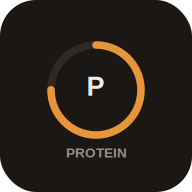
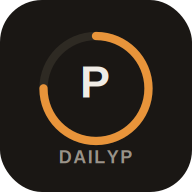
Add files via upload

diff --git a/public/index.html b/public/index.html
@@ -7,7 +7,8 @@
   <meta name="apple-mobile-web-app-status-bar-style" content="black-translucent">
   <meta name="theme-color" content="#1a1714">
   <link rel="manifest" href="/manifest.json">
-  <title>Protein Tracker</title>
+  <link rel="apple-touch-icon" href="/apple-touch-icon.png">
+  <title>DailyP — Hit your protein. Every day.</title>
   <link href="https://fonts.googleapis.com/css2?family=DM+Sans:ital,opsz,wght@0,9..40,300;0,9..40,400;0,9..40,500;0,9..40,600;0,9..40,700&display=swap" rel="stylesheet">
   <style>
     * { box-sizing: border-box; margin: 0; padding: 0; }
@@ -192,7 +193,7 @@
       return (
         <div style={{minHeight:"100vh",background:T.bg,color:T.text,maxWidth:430,margin:"0 auto",paddingBottom:40}}>
           <div style={{padding:"20px 24px 0",display:"flex",justifyContent:"space-between",alignItems:"center"}}>
-            <h2 style={{fontSize:20,fontWeight:700}}>History</h2>
+            <div style={{display:"flex",alignItems:"center",gap:6}}><svg width="22" height="22" viewBox="0 0 32 32"><circle cx="16" cy="16" r="14" fill="none" stroke={T.surfaceLight} strokeWidth="2.5"/><circle cx="16" cy="16" r="14" fill="none" stroke={T.accent} strokeWidth="2.5" strokeDasharray={88} strokeDashoffset={22} strokeLinecap="round" style={{transform:"rotate(-90deg)",transformOrigin:"center"}}/><text x="16" y="21" textAnchor="middle" fill={T.text} fontSize="14" fontWeight="700" fontFamily="DM Sans">P</text></svg><h2 style={{fontSize:18,fontWeight:700}}>History</h2></div>
             <button onClick={onClose} style={{background:T.surface,border:`1px solid ${T.surfaceLight}`,color:T.textDim,fontSize:12,padding:"6px 14px",borderRadius:8,cursor:"pointer"}}>Back</button>
           </div>
           <div style={{display:"flex",gap:4,background:T.surface,borderRadius:12,margin:"16px 24px 0",padding:4}}>
@@ -246,8 +247,8 @@
 
             {step===0&&(
               <div style={{animation:"fadeIn 0.4s ease"}}>
-                <h2 style={{fontSize:26,fontWeight:700,marginBottom:8,background:`linear-gradient(135deg,${T.text},${T.accent})`,WebkitBackgroundClip:"text",WebkitTextFillColor:"transparent"}}>Let's set your protein goal</h2>
-                <p style={{fontSize:14,color:T.textDim,marginBottom:32,lineHeight:1.5}}>We'll calculate a personalized daily target based on your body and goals.</p>
+                <h2 style={{fontSize:26,fontWeight:700,marginBottom:8,background:`linear-gradient(135deg,${T.text},${T.accent})`,WebkitBackgroundClip:"text",WebkitTextFillColor:"transparent"}}>Welcome to DailyP</h2>
+                <p style={{fontSize:14,color:T.textDim,marginBottom:32,lineHeight:1.5}}>Let's calculate your personalized daily protein target.</p>
                 <label style={{fontSize:13,color:T.textDim,display:"block",marginBottom:10}}>What's your current weight?</label>
                 <div style={{display:"flex",gap:10,marginBottom:24}}>
                   <input type="number" value={weight} onChange={e=>setWeight(e.target.value)} placeholder="Enter weight" style={{flex:1,background:T.surface,border:`1px solid ${T.surfaceLight}`,color:T.text,fontSize:18,padding:"14px 16px",borderRadius:12}} onFocus={e=>e.target.style.borderColor=T.accent} onBlur={e=>e.target.style.borderColor=T.surfaceLight} autoFocus/>
@@ -395,16 +396,19 @@
       const clearDay=()=>{setEntries([]);setError("");};
       const today=new Date().toLocaleDateString("en-US",{weekday:"long",month:"long",day:"numeric"});
 
-      if(!loaded)return<div style={{minHeight:"100vh",background:T.bg,display:"flex",alignItems:"center",justifyContent:"center"}}><div style={{color:T.accent,fontSize:16,animation:"pulse 1.5s ease infinite"}}>Loading...</div></div>;
+      if(!loaded)return<div style={{minHeight:"100vh",background:T.bg,display:"flex",flexDirection:"column",alignItems:"center",justifyContent:"center",gap:12}}><div style={{display:"flex",alignItems:"center",gap:4}}><svg width="32" height="32" viewBox="0 0 32 32"><circle cx="16" cy="16" r="14" fill="none" stroke={T.surfaceLight} strokeWidth="2.5"/><circle cx="16" cy="16" r="14" fill="none" stroke={T.accent} strokeWidth="2.5" strokeDasharray={88} strokeDashoffset={22} strokeLinecap="round" style={{transform:"rotate(-90deg)",transformOrigin:"center"}}/><text x="16" y="21" textAnchor="middle" fill={T.text} fontSize="14" fontWeight="700" fontFamily="DM Sans">P</text></svg><span style={{fontSize:22,fontWeight:700,color:T.text,letterSpacing:-0.5}}>Daily<span style={{color:T.accent}}>P</span></span></div><div style={{color:T.textDim,fontSize:12,animation:"pulse 1.5s ease infinite"}}>Loading...</div></div>;
       if(!onboarded)return<OnboardingScreen onComplete={g=>{setDailyGoal(g);setTempGoal(g);setOnboarded(true);}}/>;
       if(showHistory)return<HistoryView history={history} goal={dailyGoal} onClose={()=>setShowHistory(false)}/>;
 
       return (
         <div style={{minHeight:"100vh",background:T.bg,color:T.text,maxWidth:430,margin:"0 auto",position:"relative",paddingBottom:40}}>
           <div style={{padding:"20px 24px 0",display:"flex",justifyContent:"space-between",alignItems:"flex-start"}}>
-            <div>
-              <h1 style={{fontSize:22,fontWeight:700,letterSpacing:-0.5,background:`linear-gradient(135deg,${T.text},${T.accent})`,WebkitBackgroundClip:"text",WebkitTextFillColor:"transparent"}}>Protein</h1>
-              <div style={{fontSize:12,color:T.textDim,marginTop:2}}>{today}</div>
+            <div style={{display:"flex",alignItems:"center",gap:6}}>
+              <svg width="26" height="26" viewBox="0 0 32 32"><circle cx="16" cy="16" r="14" fill="none" stroke={T.surfaceLight} strokeWidth="2.5"/><circle cx="16" cy="16" r="14" fill="none" stroke={T.accent} strokeWidth="2.5" strokeDasharray={88} strokeDashoffset={22} strokeLinecap="round" style={{transform:"rotate(-90deg)",transformOrigin:"center"}}/><text x="16" y="21" textAnchor="middle" fill={T.text} fontSize="14" fontWeight="700" fontFamily="DM Sans">P</text></svg>
+              <div>
+                <h1 style={{fontSize:20,fontWeight:700,letterSpacing:-0.5,color:T.text,lineHeight:1}}>Daily<span style={{color:T.accent}}>P</span></h1>
+                <div style={{fontSize:11,color:T.textDim,marginTop:1}}>{today}</div>
+              </div>
             </div>
             <div style={{display:"flex",gap:8}}>
               <button onClick={()=>setShowHistory(true)} style={{background:T.surface,border:`1px solid ${T.surfaceLight}`,color:T.textDim,fontSize:12,padding:"6px 12px",borderRadius:8,cursor:"pointer"}}>History</button>
@@ -458,7 +462,7 @@
             </div>
             {entries.length===0&&!isProcessing&&(
               <div style={{textAlign:"center",padding:"32px 16px",color:T.textDim,fontSize:14}}>
-                <div style={{fontSize:32,marginBottom:8,opacity:0.4}}>🍗</div>Log your first meal to get started
+                <div style={{fontSize:32,marginBottom:8,opacity:0.4}}>🍗</div>Say or type what you ate to get started
               </div>
             )}
           </div>
